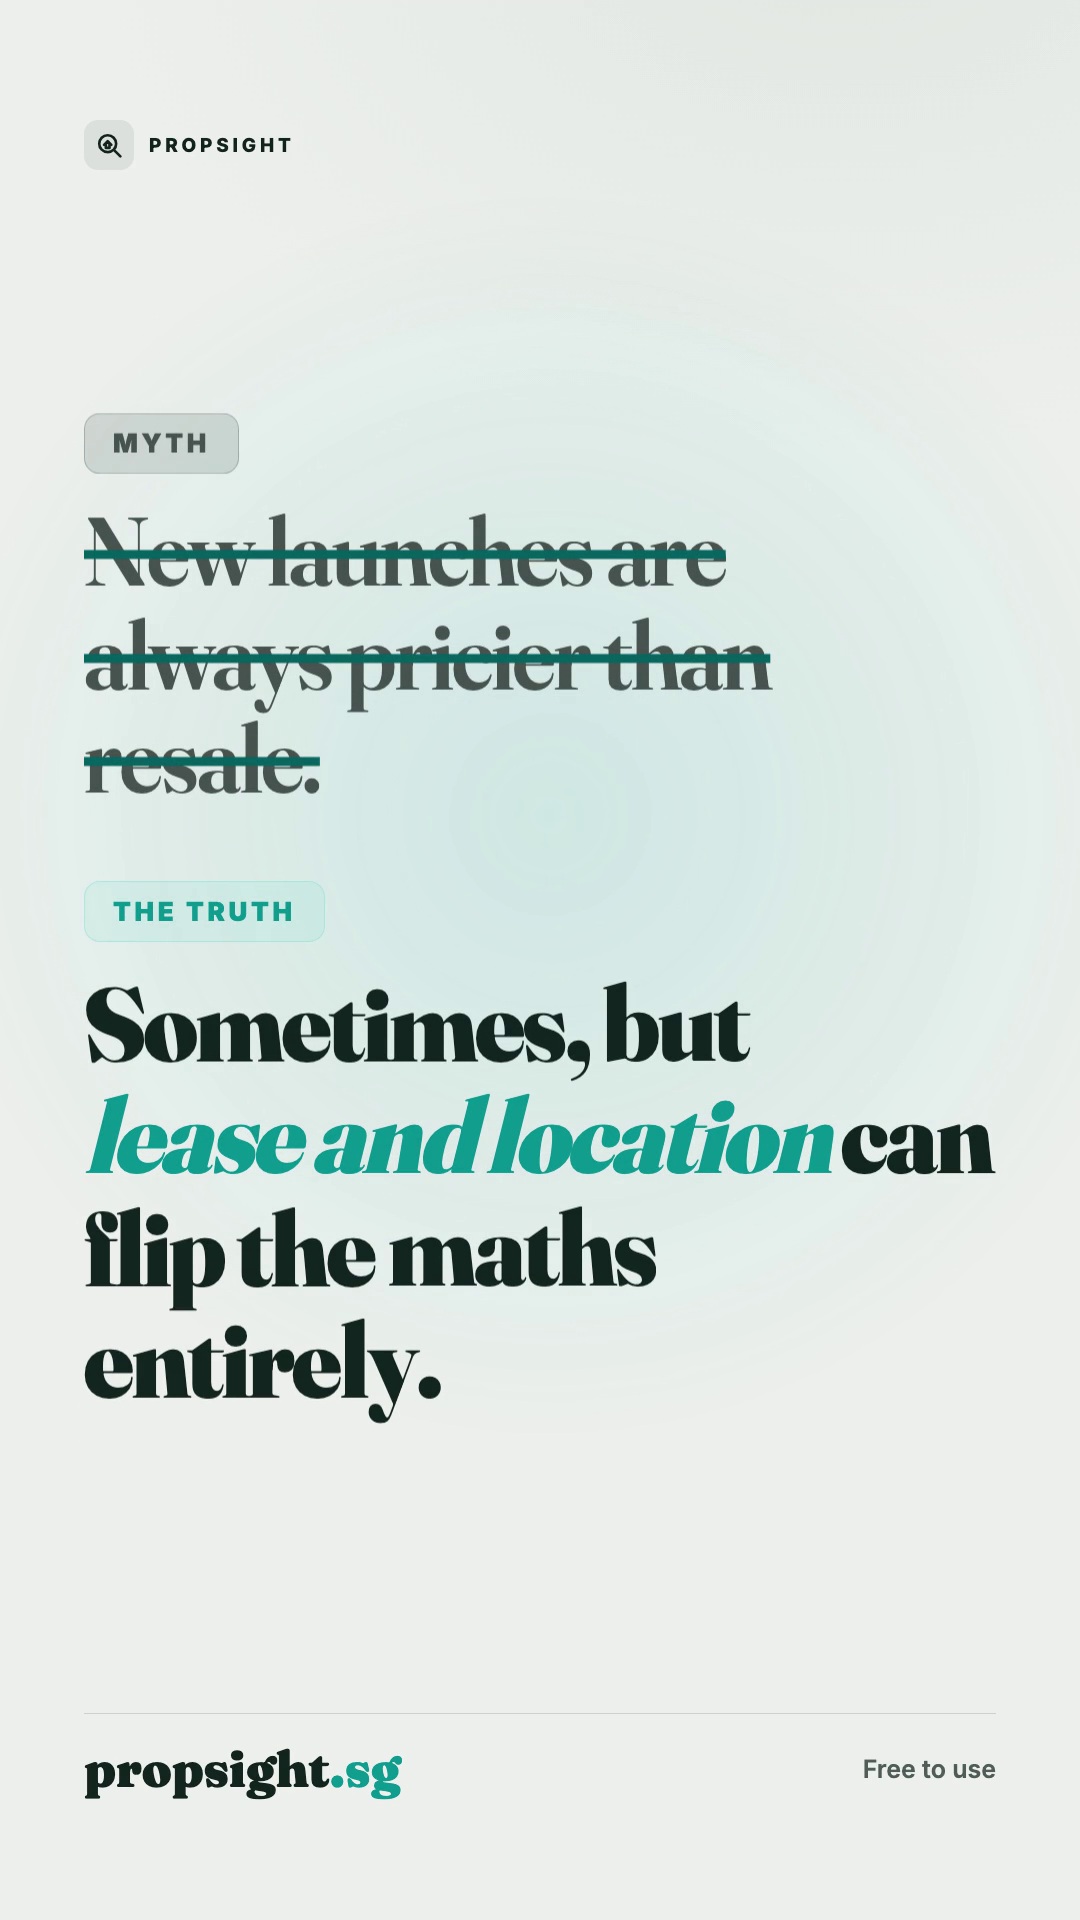
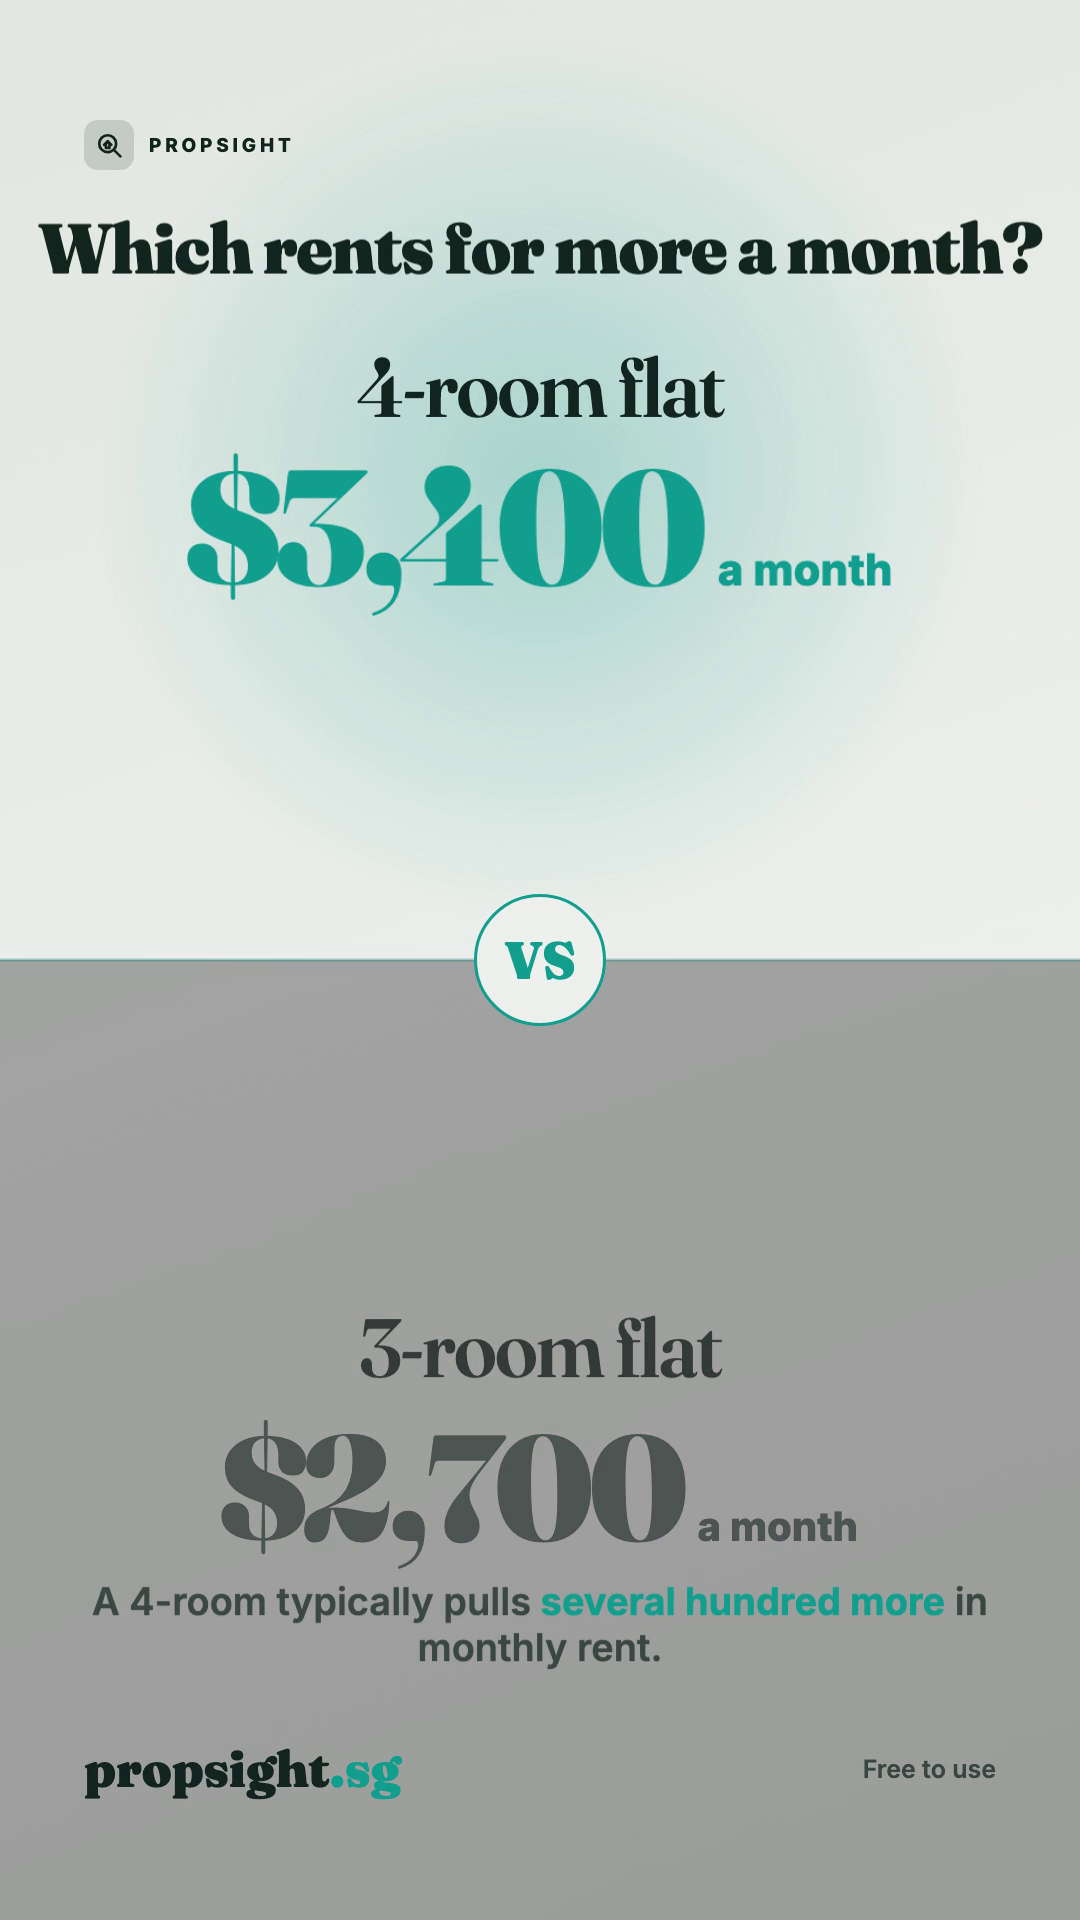
Studio: PropSight Insider photo-headline carousel series (real SG photos, AI-crafted from news) + rebalanced mix (3 reels + 2 carousels + 1 carousel)

diff --git a/press/index.html b/press/index.html
@@ -54,7 +54,7 @@ footer{color:var(--sub);font-size:12px;margin-top:24px;text-align:center}footer 
 </style></head><body><div class="wrap">
 <header><div class="kick">PropSight Studio</div><h1>Your Instagram plan</h1>
 <p class="lead">Follow the numbers in order. Copy the caption, long-press the image to save, post, tick done.</p>
-<div class="prog"><span id="pt">0 of 7 done</span><div class="bar"><i id="pb"></i></div></div></header>
+<div class="prog"><span id="pt">0 of 8 done</span><div class="bar"><i id="pb"></i></div></div></header>
 <button class="today" data-goto="f1"><b>Today</b> &middot; post a Story. Next post: #1 Reel, Thu 2 Jul 8:00pm &rsaquo;</button>
 <div class="banner">Post the set below in number order. It refreshes on its own every week.</div>
 
@@ -70,60 +70,73 @@ footer{color:var(--sub);font-size:12px;margin-top:24px;text-align:center}footer 
     <article class="card" data-id="f1">
       <label class="ck"><input type="checkbox" data-id="f1"></label>
       <div class="meta"><span class="o">1</span>Thu 2 Jul &middot; 8:00pm &middot; <b>Reel</b></div>
-      <h3>Most people hold at least one wrong belief about home prices in Singapore</h3>
-      <div class="media"><a class="reel" href="/reels/clips/psreel-f1.mp4?b=1782910044" download><img src="/press/studio/rl1.png?b=1782910044" alt=""><span class="pl">&#8681;</span><span class="rl">Tap to save video</span></a><div class="hint">iPhone: tap &rarr; <b>Save to Files</b>. Then open the <b>Files</b> app &rarr; long-press the video &rarr; <b>Save Video</b> (into Photos).</div></div>
-      <div style="font-size:12.5px;color:#4d6a61;background:#eef4f2;border:1px solid #d9e8e3;border-radius:9px;padding:9px 11px;margin:9px 0 0;line-height:1.45">Sound: punchy, slightly dramatic. Search IG audio for “dramatic reveal” or “punchy beat”, pick a ↑ trending one (under 30s), volume low.</div>
+      <h3>A 4-room flat earns a few hundred dollars more rent a month than a 3-room in most towns</h3>
+      <div class="media"><a class="reel" href="/reels/clips/psreel-f1.mp4?b=1782912093" download><img src="/press/studio/rl1.png?b=1782912093" alt=""><span class="pl">&#8681;</span><span class="rl">Tap to save video</span></a><div class="hint">iPhone: tap &rarr; <b>Save to Files</b>. Then open the <b>Files</b> app &rarr; long-press the video &rarr; <b>Save Video</b> (into Photos).</div></div>
+      <div style="font-size:12.5px;color:#4d6a61;background:#eef4f2;border:1px solid #d9e8e3;border-radius:9px;padding:9px 11px;margin:9px 0 0;line-height:1.45">Sound: playful, bouncy. Search IG audio for “playful beat” or “bouncy pop”, pick a ↑ trending one (under 30s), volume low.</div>
       <div class="loc">Tag location: <b>Singapore</b></div>
-      <div class="btns"><button class="b" data-copy="Most people hold at least one wrong belief about home prices in Singapore. The actual transaction numbers tell a very different story. Check any home against real recent sales, free, at propsight.sg, link in bio.
+      <div class="btns"><button class="b" data-copy="A 4-room flat earns a few hundred dollars more rent a month than a 3-room in most towns. Whether the higher price is worth it comes down to yield. Check any block for free at propsight.sg, link in bio.
 
-很多人对新加坡房价都有一些常见的错误认知。真实成交数据说明的情况往往大不相同。免费查任何房子的近期实际成交价，propsight.sg，链接在简介。
+四房式组屋在大多数市镇的月租，比三房式高出几百新元。但更高的买入价值不值得，关键还是看回报率。任何一栋都可以免费查，propsight.sg，链接在简介。
 
-#singaporeproperty #hdb #sgproperty #propertysingapore #hdbresale #propertytips">Copy caption &amp; hashtags</button><details class="dd"><summary class="b ghost">Ads tip</summary><div class="ad">Let it run organically first. If it gets traction, boost SGD 10 for link clicks, Singapore.</div></details></div>
+#singaporeproperty #hdb #sgproperty #propertysingapore #hdbresale #rentalyield">Copy caption &amp; hashtags</button><details class="dd"><summary class="b ghost">Ads tip</summary><div class="ad">Let it run organically first. If it gets traction, boost SGD 10 for link clicks, Singapore.</div></details></div>
     </article>
     <article class="card" data-id="f2">
       <label class="ck"><input type="checkbox" data-id="f2"></label>
       <div class="meta"><span class="o">2</span>Fri 3 Jul &middot; 1:00pm &middot; <b>Reel</b></div>
-      <h3>Woodlands keeps surprising people: median 4-room resale sits at $510k, gross yield is ru</h3>
-      <div class="media"><a class="reel" href="/reels/clips/psreel-f2.mp4?b=1782910044" download><img src="/press/studio/rl2.png?b=1782910044" alt=""><span class="pl">&#8681;</span><span class="rl">Tap to save video</span></a><div class="hint">iPhone: tap &rarr; <b>Save to Files</b>. Then open the <b>Files</b> app &rarr; long-press the video &rarr; <b>Save Video</b> (into Photos).</div></div>
+      <h3>Woodlands runs a median 4-room resale at around $510k with a gross yield of about 6.4%, </h3>
+      <div class="media"><a class="reel" href="/reels/clips/psreel-f2.mp4?b=1782912093" download><img src="/press/studio/rl2.png?b=1782912093" alt=""><span class="pl">&#8681;</span><span class="rl">Tap to save video</span></a><div class="hint">iPhone: tap &rarr; <b>Save to Files</b>. Then open the <b>Files</b> app &rarr; long-press the video &rarr; <b>Save Video</b> (into Photos).</div></div>
       <div style="font-size:12.5px;color:#4d6a61;background:#eef4f2;border:1px solid #d9e8e3;border-radius:9px;padding:9px 11px;margin:9px 0 0;line-height:1.45">Sound: warm, cinematic. Search IG audio for “cinematic warm” or “aesthetic ambient”, pick a ↑ trending one (under 30s), volume low.</div>
       <div class="loc">Tag location: <b>Singapore</b></div>
-      <div class="btns"><button class="b" data-copy="Woodlands keeps surprising people: median 4-room resale sits at $510k, gross yield is running at 6.4%, and the amenities are genuinely there. Worth knowing before you decide where to buy or sell. Check any town yourself, free, at propsight.sg, link in bio.
+      <div class="btns"><button class="b" data-copy="Woodlands runs a median 4-room resale at around $510k with a gross yield of about 6.4%, plus the kind of amenities that actually make a neighbourhood livable. Solid numbers for buyers and owners who want the real picture. Check any town free at propsight.sg, link in bio.
 
-Woodlands 真的值得看：四房式 resale 中位价 $510k，毛回报 6.4%，配套也不差。买卖前自己查一查，任何镇都免费，propsight.sg，链接在简介。
+Woodlands的四房式转售中位价约$510k，毛回报约6.4%，生活配套也到位。想了解其他市镇的数据，直接去propsight.sg免费查，链接在简介。
 
 #singaporeproperty #hdb #sgproperty #propertysingapore #hdbresale #sghomes">Copy caption &amp; hashtags</button><details class="dd"><summary class="b ghost">Ads tip</summary><div class="ad">Let it run organically first. If it gets traction, boost SGD 10 for link clicks, Singapore.</div></details></div>
     </article>
     <article class="card" data-id="f3">
       <label class="ck"><input type="checkbox" data-id="f3"></label>
       <div class="meta"><span class="o">3</span>Sat 4 Jul &middot; 7:00pm &middot; <b>Reel</b></div>
-      <h3>Save this before you start viewing</h3>
-      <div class="media"><a class="reel" href="/reels/clips/psreel-f3.mp4?b=1782910044" download><img src="/press/studio/rl3.png?b=1782910044" alt=""><span class="pl">&#8681;</span><span class="rl">Tap to save video</span></a><div class="hint">iPhone: tap &rarr; <b>Save to Files</b>. Then open the <b>Files</b> app &rarr; long-press the video &rarr; <b>Save Video</b> (into Photos).</div></div>
+      <h3>Save this before you buy</h3>
+      <div class="media"><a class="reel" href="/reels/clips/psreel-f3.mp4?b=1782912093" download><img src="/press/studio/rl3.png?b=1782912093" alt=""><span class="pl">&#8681;</span><span class="rl">Tap to save video</span></a><div class="hint">iPhone: tap &rarr; <b>Save to Files</b>. Then open the <b>Files</b> app &rarr; long-press the video &rarr; <b>Save Video</b> (into Photos).</div></div>
       <div style="font-size:12.5px;color:#4d6a61;background:#eef4f2;border:1px solid #d9e8e3;border-radius:9px;padding:9px 11px;margin:9px 0 0;line-height:1.45">Sound: crisp, motivational. Search IG audio for “motivational” or “clean upbeat”, pick a ↑ trending one (under 30s), volume low.</div>
       <div class="loc">Tag location: <b>Singapore</b></div>
-      <div class="btns"><button class="b" data-copy="Save this before you start viewing. The details most buyers miss can swing the final number by thousands, one way or the other. Figure it all out free at propsight.sg, link in bio.
+      <div class="btns"><button class="b" data-copy="Save this before you buy. The details most people overlook are exactly where thousands get lost or saved. Check it all yourself for free at propsight.sg, link in bio.
 
-看房之前先收藏好。很多买家没注意到的细节，可以让价格差出好几千，有省有亏。免费自己算清楚，propsight.sg，链接在简介。
+买之前先存起来。很多人漏看的细节，就是那些能帮你省下或多花好几千块的地方。免费自己去算清楚，propsight.sg，链接在简介。
 
 #singaporeproperty #hdb #sgproperty #propertysingapore #hdbresale #firsttimebuyer">Copy caption &amp; hashtags</button><details class="dd"><summary class="b ghost">Ads tip</summary><div class="ad">Let it run organically first. If it gets traction, boost SGD 10 for link clicks, Singapore.</div></details></div>
     </article>
     <article class="card" data-id="f4">
       <label class="ck"><input type="checkbox" data-id="f4"></label>
-      <div class="meta"><span class="o">4</span>Sun 5 Jul &middot; 1:00pm &middot; <b>Reel</b></div>
-      <h3>Here is what each HDB flat type has been going for lately, straight from real transactio</h3>
-      <div class="media"><a class="reel" href="/reels/clips/psreel-f4.mp4?b=1782910044" download><img src="/press/studio/rl4.png?b=1782910044" alt=""><span class="pl">&#8681;</span><span class="rl">Tap to save video</span></a><div class="hint">iPhone: tap &rarr; <b>Save to Files</b>. Then open the <b>Files</b> app &rarr; long-press the video &rarr; <b>Save Video</b> (into Photos).</div></div>
-      <div style="font-size:12.5px;color:#4d6a61;background:#eef4f2;border:1px solid #d9e8e3;border-radius:9px;padding:9px 11px;margin:9px 0 0;line-height:1.45">Sound: building, suspenseful. Search IG audio for “build up” or “suspense beat”, pick a ↑ trending one (under 30s), volume low.</div>
+      <div class="meta"><span class="o">4</span>Sun 5 Jul &middot; 1:00pm &middot; <b>Carousel</b></div>
+      <h3>Q2 2026 data confirms what many HDB sellers are already feeling: the market has softened</h3>
+      <div class="media"><div class="strip"><img src="/press/studio/ins1-1.png?b=1782912093" alt="slide 1"><img src="/press/studio/ins1-2.png?b=1782912093" alt="slide 2"><img src="/press/studio/ins1-3.png?b=1782912093" alt="slide 3"></div><div class="hint">Swipe, long-press each slide to save (3 slides)</div></div>
+      
       <div class="loc">Tag location: <b>Singapore</b></div>
-      <div class="btns"><button class="b" data-copy="Here is what each HDB flat type has been going for lately, straight from real transaction data. See for yourself how far your budget actually stretches. Check any block free at propsight.sg, link in bio.
+      <div class="btns"><button class="b" data-copy="Q2 2026 data confirms what many HDB sellers are already feeling: the market has softened. HDB resale prices dipped 0.3% while private homes edged up 0.5%, two markets moving in opposite directions. Wherever you sit, pricing off gut feel right now will cost you. Check actual recent transactions free at propsight.sg, link in bio.
 
-最近各类HDB户型的实际成交行情都在这里，让你看清楚预算到底能买到什么。免费查任何一栋，propsight.sg，链接在简介。
+2026年第二季度数据证实了许多HDB转售卖家的感受：市场已经转软。HDB转售价格下跌0.3%，而私宅价格上涨0.5%，两个市场走势截然相反。不管你处于哪个市场，凭感觉定价都会让你付出代价。在propsight.sg免费查看近期实际成交数据，链接在简介里。
 
-#singaporeproperty #hdb #sgproperty #propertysingapore #hdbresale #hdbresale">Copy caption &amp; hashtags</button><details class="dd"><summary class="b ghost">Ads tip</summary><div class="ad">Let it run organically first. If it gets traction, boost SGD 10 for link clicks, Singapore.</div></details></div>
+#singaporeproperty #hdb #propertynews #sgproperty #propertysingapore">Copy caption &amp; hashtags</button><details class="dd"><summary class="b ghost">Ads tip</summary><div class="ad">Strong save/share content. Boost SGD 10 for reach, Singapore.</div></details></div>
     </article>
     <article class="card" data-id="f5">
       <label class="ck"><input type="checkbox" data-id="f5"></label>
       <div class="meta"><span class="o">5</span>Mon 6 Jul &middot; 7:00pm &middot; <b>Carousel</b></div>
+      <h3>The jobs outlook softened in Q2, and HDB resale prices and transaction volumes are showi</h3>
+      <div class="media"><div class="strip"><img src="/press/studio/ins2-1.png?b=1782912093" alt="slide 1"><img src="/press/studio/ins2-2.png?b=1782912093" alt="slide 2"><img src="/press/studio/ins2-3.png?b=1782912093" alt="slide 3"></div><div class="hint">Swipe, long-press each slide to save (3 slides)</div></div>
+      
+      <div class="loc">Tag location: <b>Singapore</b></div>
+      <div class="btns"><button class="b" data-copy="The jobs outlook softened in Q2, and HDB resale prices and transaction volumes are showing it. Sellers are under more pressure than they have been in a while, which gives serious buyers a real window to negotiate. Before you put in an offer, check what units in the same block and street actually sold for. Free resale transaction data is at propsight.sg, link in bio.
+
+第二季度就业前景走软，HDB转售价格和成交量都随之下滑。卖方压力上升，认真找房的买家难得迎来一个可以压价的时机。出价前，先查清楚同一组屋的实际成交记录，心里才有底。免费转售数据就在 propsight.sg，链接在简介里。
+
+#singaporeproperty #hdb #propertynews #sgproperty #propertysingapore">Copy caption &amp; hashtags</button><details class="dd"><summary class="b ghost">Ads tip</summary><div class="ad">Strong save/share content. Boost SGD 10 for reach, Singapore.</div></details></div>
+    </article>
+    <article class="card" data-id="f6">
+      <label class="ck"><input type="checkbox" data-id="f6"></label>
+      <div class="meta"><span class="o">6</span>Tue 7 Jul &middot; 7:00pm &middot; <b>Carousel</b></div>
       <h3>5 grants first-time buyers quietly leave on the table.</h3>
-      <div class="media"><div class="strip"><img src="/press/studio/c1-1.png?b=1782910044" alt="slide 1"><img src="/press/studio/c1-2.png?b=1782910044" alt="slide 2"><img src="/press/studio/c1-3.png?b=1782910044" alt="slide 3"><img src="/press/studio/c1-4.png?b=1782910044" alt="slide 4"><img src="/press/studio/c1-5.png?b=1782910044" alt="slide 5"></div><div class="hint">Swipe, long-press each slide to save (5 slides)</div></div>
+      <div class="media"><div class="strip"><img src="/press/studio/c1-1.png?b=1782912093" alt="slide 1"><img src="/press/studio/c1-2.png?b=1782912093" alt="slide 2"><img src="/press/studio/c1-3.png?b=1782912093" alt="slide 3"><img src="/press/studio/c1-4.png?b=1782912093" alt="slide 4"><img src="/press/studio/c1-5.png?b=1782912093" alt="slide 5"></div><div class="hint">Swipe, long-press each slide to save (5 slides)</div></div>
       
       <div class="loc">Tag location: <b>Singapore</b></div>
       <div class="btns"><button class="b" data-copy="First-time buyers can stack more housing grants than most realise. Here are the ones people quietly miss. Check exactly what you qualify for, free, link in bio. Save this before you book.
@@ -138,19 +151,19 @@ Woodlands 真的值得看：四房式 resale 中位价 $510k，毛回报 6.4%，
       <label class="ck"><input type="checkbox" data-id="s1"></label>
       <div class="meta"><span class="o">S</span>Every day &middot; anytime 12pm to 9pm &middot; <b>Story</b></div>
       <h3>Your flat may be worth more than the agent says.</h3>
-      <div class="media"><img class="single tall" src="/press/studio/s1.png?b=1782910044" alt=""><div class="hint">Long-press to save</div></div>
+      <div class="media"><img class="single tall" src="/press/studio/s1.png?b=1782912093" alt=""><div class="hint">Long-press to save</div></div>
       <div class="btns"><details class="dd"><summary class="b ghost">What to do</summary><div class="ad">Post as a Story. Add a POLL sticker, question: Worth more or less than you think?</div></details></div>
     </article>
     <article class="card" data-id="s2">
       <label class="ck"><input type="checkbox" data-id="s2"></label>
       <div class="meta"><span class="o">S</span>Every day &middot; anytime 12pm to 9pm &middot; <b>Story</b></div>
       <h3>The PropSight tools are free to use.</h3>
-      <div class="media"><img class="single tall" src="/press/studio/s2.png?b=1782910044" alt=""><div class="hint">Long-press to save</div></div>
+      <div class="media"><img class="single tall" src="/press/studio/s2.png?b=1782912093" alt=""><div class="hint">Long-press to save</div></div>
       <div class="btns"><details class="dd"><summary class="b ghost">What to do</summary><div class="ad">Post as a Story. Add a link sticker to propsight.sg.</div></details></div>
     </article>
 <details class="wk"><summary class="sec" style="cursor:pointer;list-style:none">After launch, weekly rhythm &middot; tap to open</summary>
 <table><tbody><tr><td class='d'>Mon</td><td class='t'>8:00pm</td><td><span class='tt'>Reel</span></td><td>Data hook, for example: this flat looks cheaper, it is not.</td></tr><tr><td class='d'>Tue</td><td class='t'>1:00pm</td><td><span class='tt'>Carousel</span></td><td>Educational, for example: 5 costs buyers forget.</td></tr><tr><td class='d'>Wed</td><td class='t'>8:00pm</td><td><span class='tt'>Reel</span></td><td>Town spotlight, hyper-local, one neighbourhood.</td></tr><tr><td class='d'>Thu</td><td class='t'>8:00pm</td><td><span class='tt'>Reel</span></td><td>Myth-bust or a client win.</td></tr><tr><td class='d'>Fri</td><td class='t'>7:00pm</td><td><span class='tt'>Single post</span></td><td>Lighter, lifestyle or a single sharp number.</td></tr><tr><td class='d'>Sat</td><td class='t'>11:00am</td><td><span class='tt'>Carousel</span></td><td>Local guide or the weekly Market Pulse.</td></tr><tr><td class='d'>Daily</td><td class='t'>-</td><td><span class='tt'>Stories</span></td><td>1 to 2 a day, and share each new post to your Story.</td></tr></tbody></table></details>
-<footer>PropSight Studio, private. <a href="/reels/?b=1782910044">Reels gallery</a> &middot; updated 1782910044</footer>
+<footer>PropSight Studio, private. <a href="/reels/?b=1782912093">Reels gallery</a> &middot; updated 1782912093</footer>
 </div>
 <script>
 function copy(t,b){navigator.clipboard.writeText(t).then(function(){var o=b.textContent;b.classList.add('done');b.textContent='Copied';setTimeout(function(){b.classList.remove('done');b.textContent=o;},1300);});}